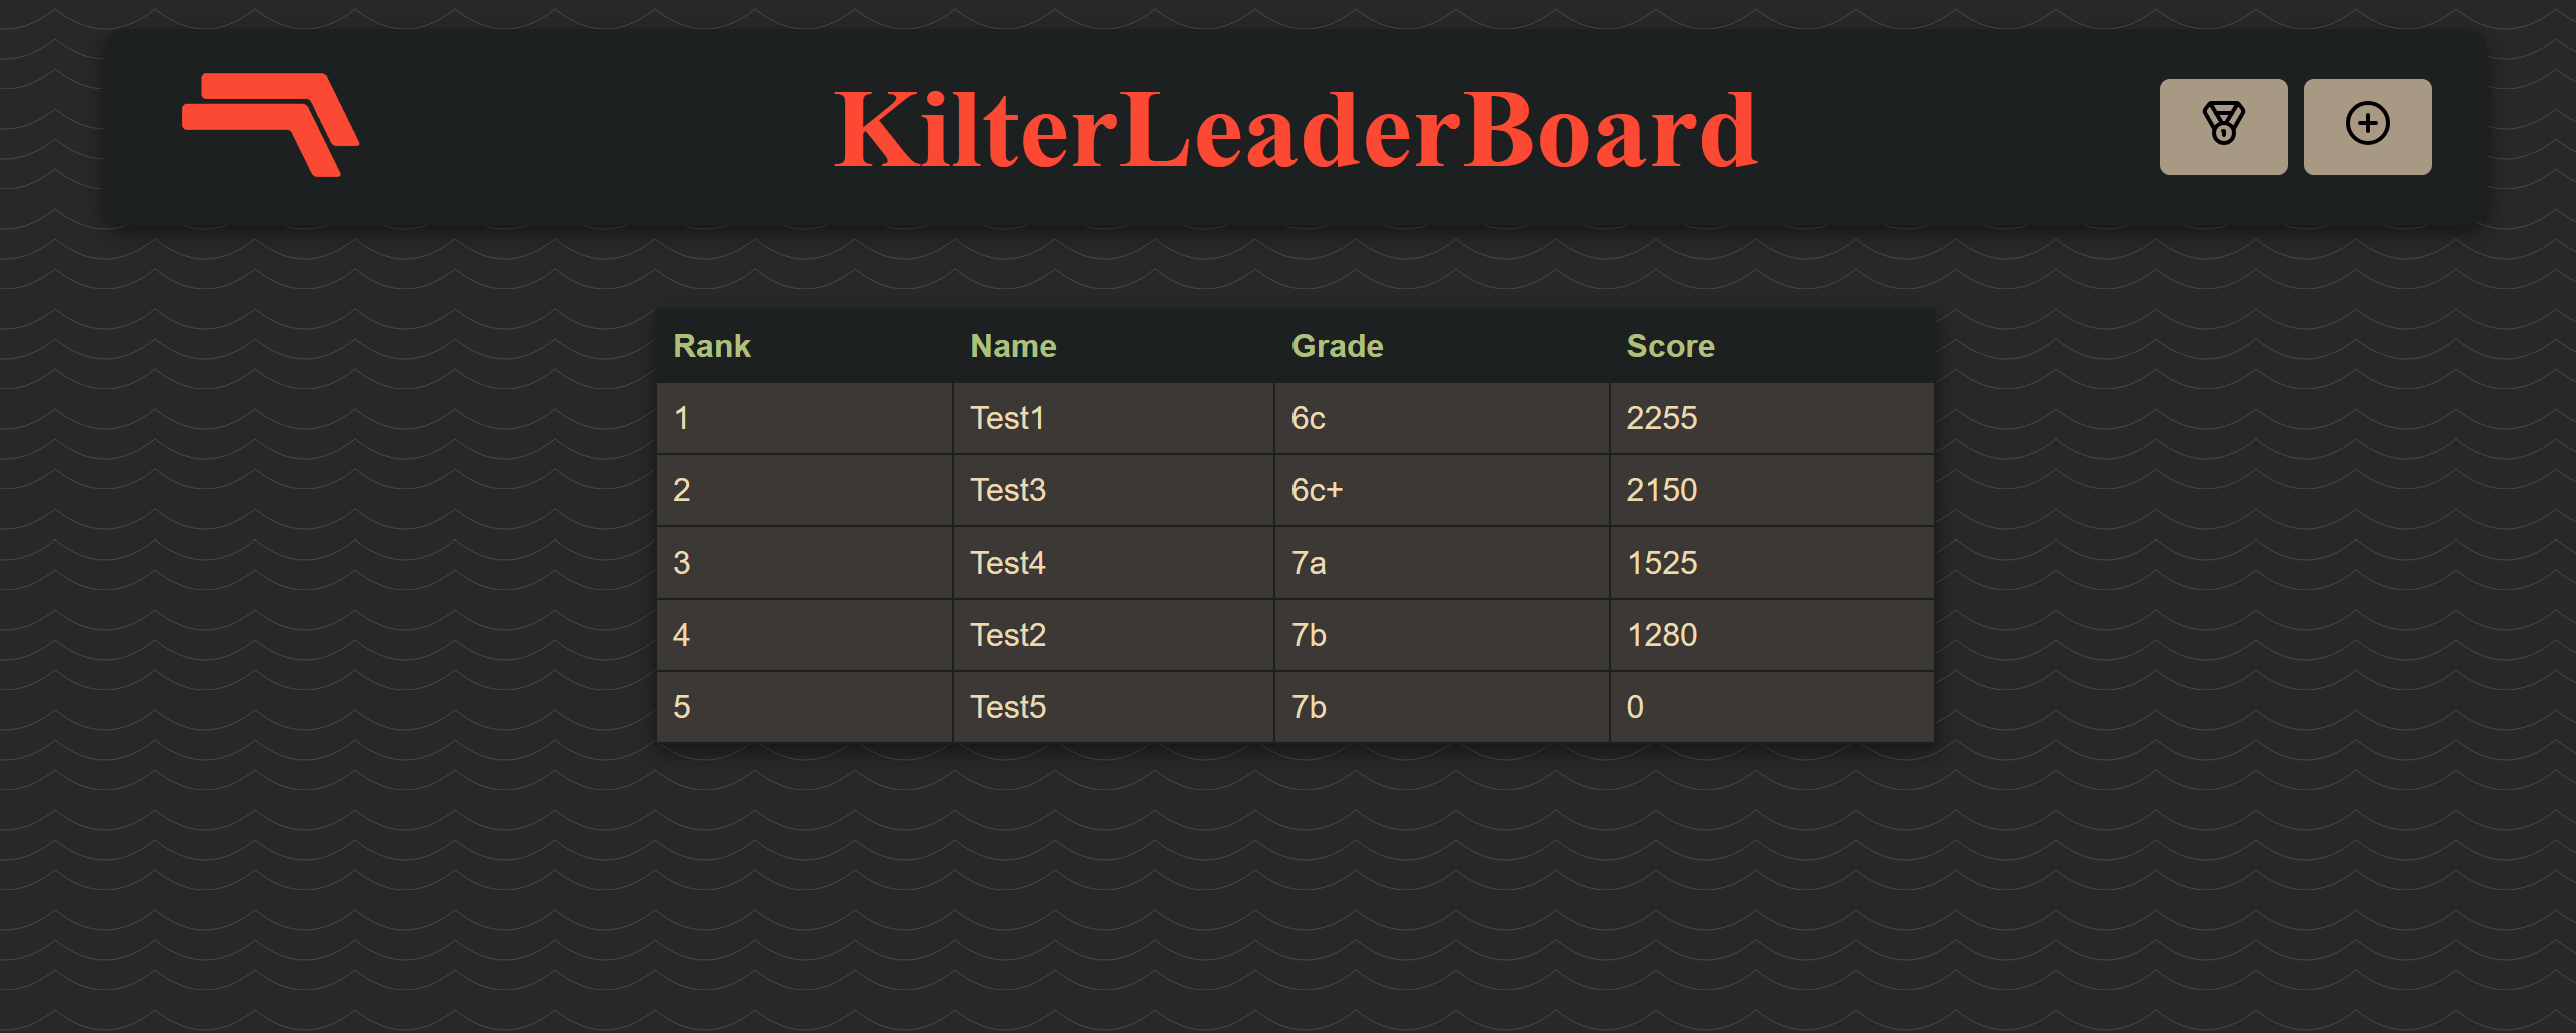
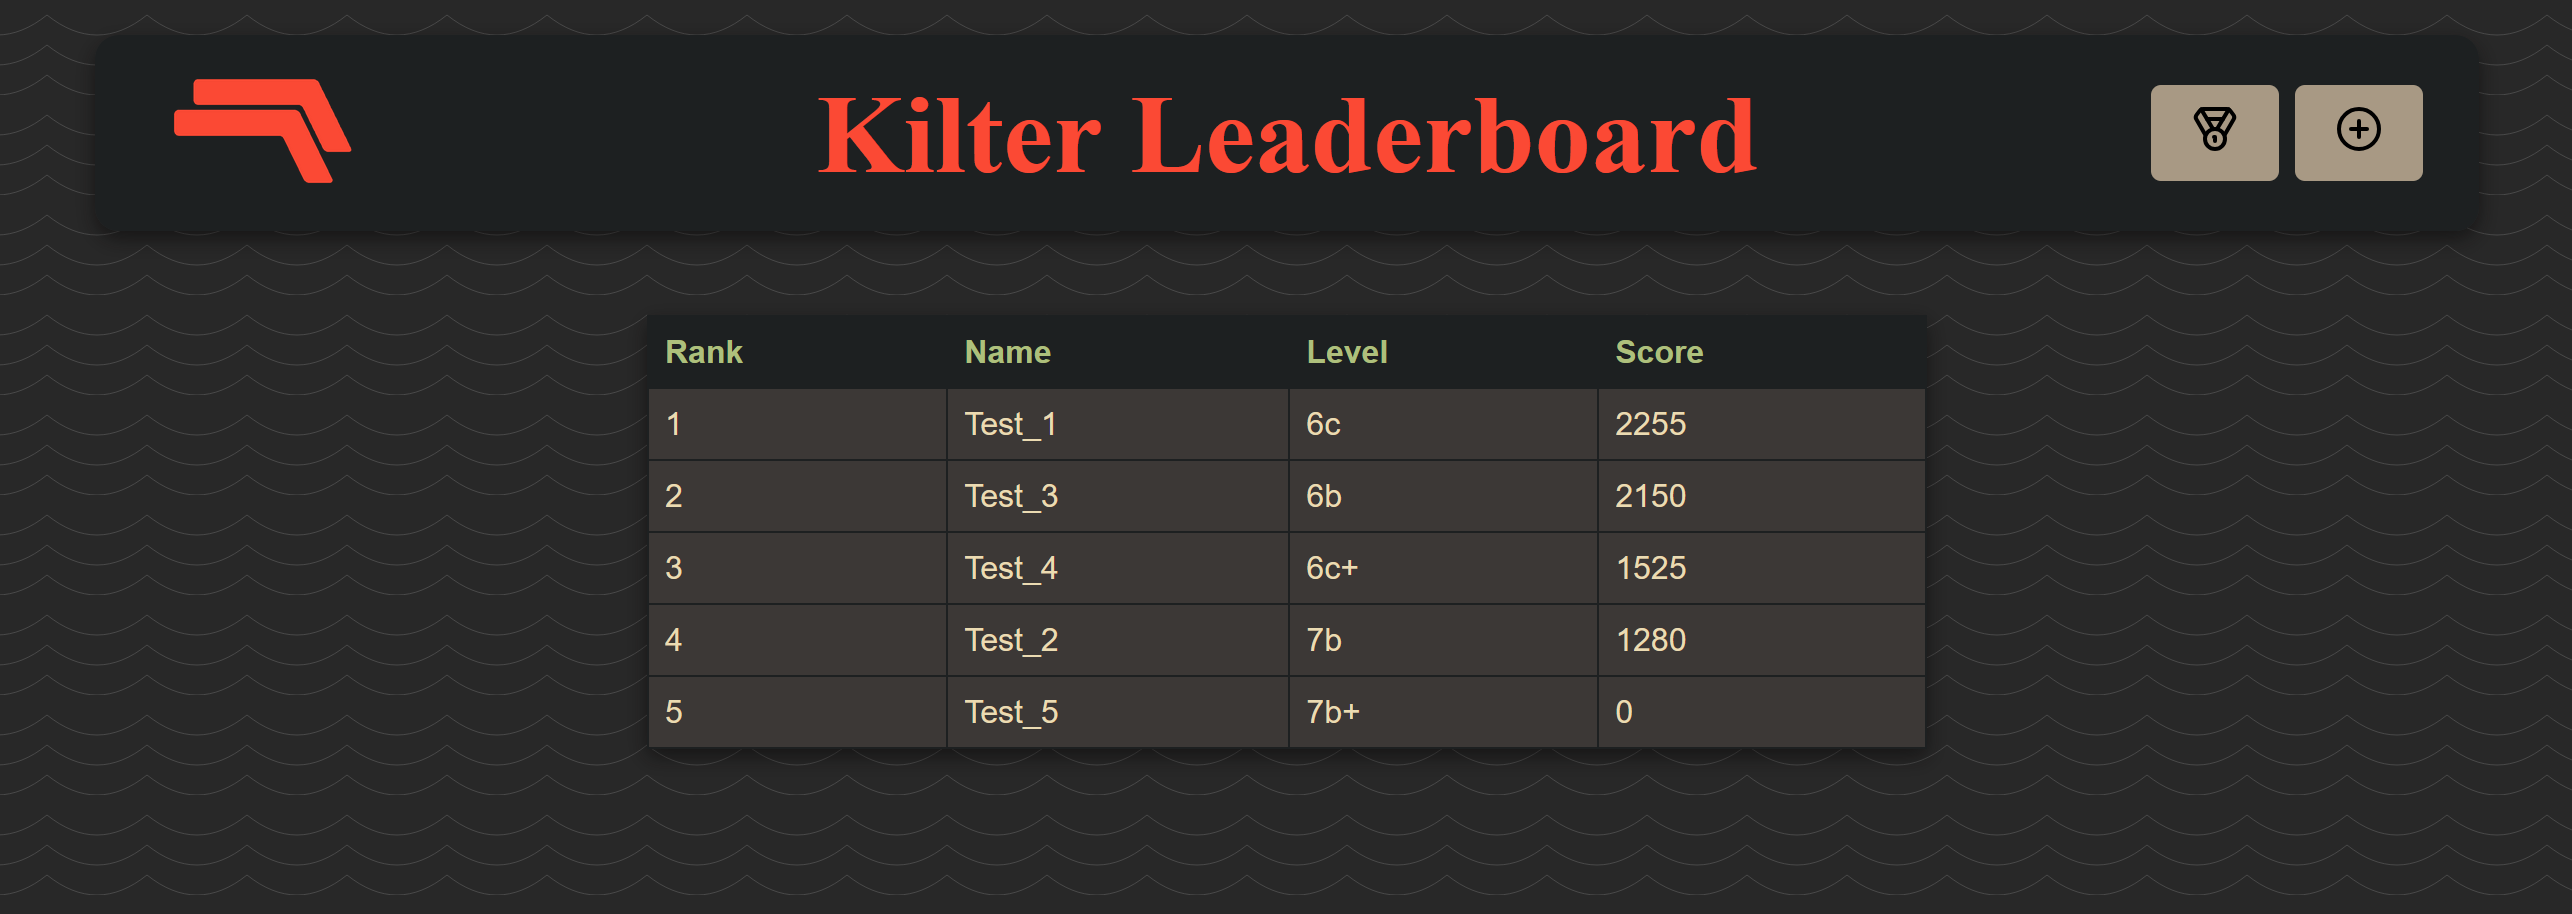
Fix visuals in readme, adapted to new version

diff --git a/README.md b/README.md
@@ -3,12 +3,13 @@ A leaderboard for the Kilter bouldering board.
 
 ## Description
 
-Users are ranked according to their performance, but the scoring is adapted to the strength of the user. <br>
+Users are ranked according to their performance, but the scoring is adapted to the skill of the user. <br>
 In order to be on the leaderboard, you must have a public Kilter account and be friends with a person on the leaderboard.
 ## Visuals
 
 ### Leaderboard
-The grade indicates the average of the user's five most difficult boulders. The score calculation is based on that value. It is calculated using only the boulders climbed in the current year.
+The skill indicates the average of the user's five most difficult boulders. The score calculation is based on that value. The score is calculated using only the boulders climbed in the current season.
+<br> A new seasons beginns on January 1st und July 1st.
 
 ![Leaderboard.png](Leaderboard.png)
 
